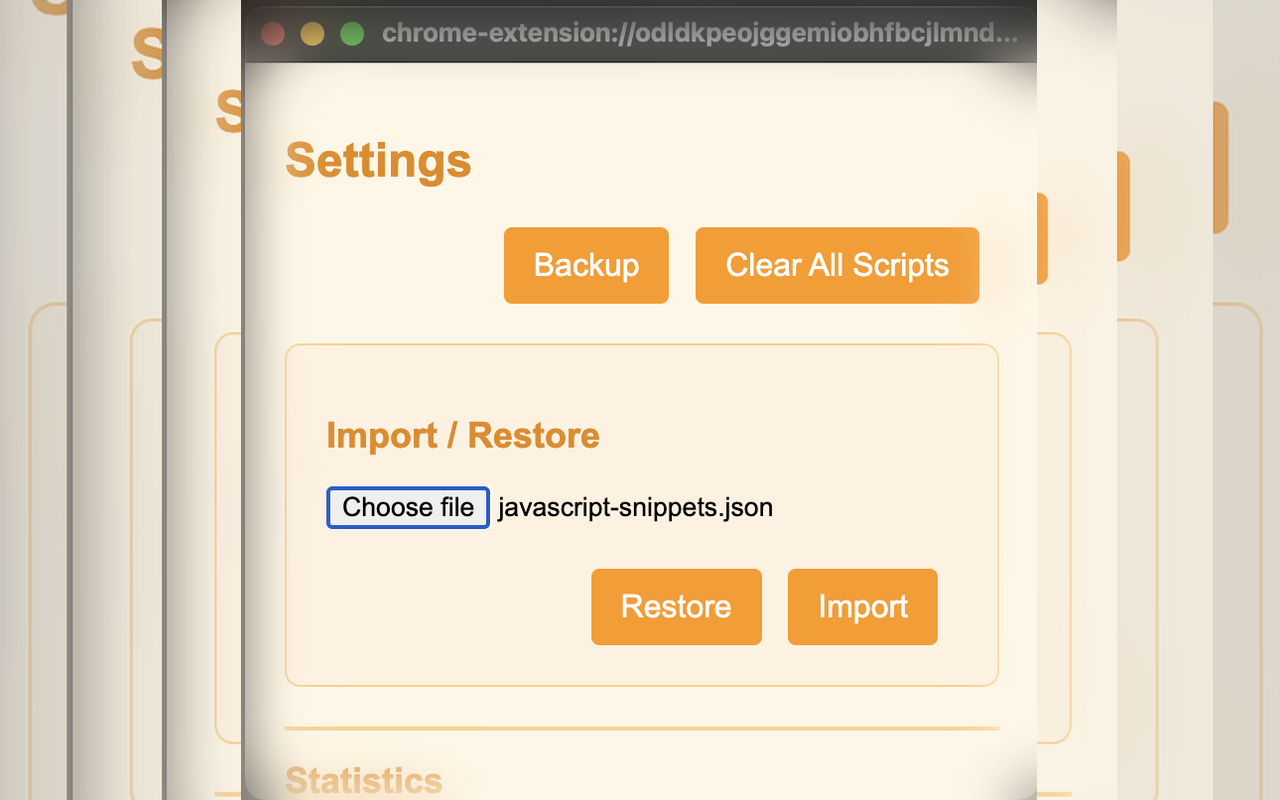
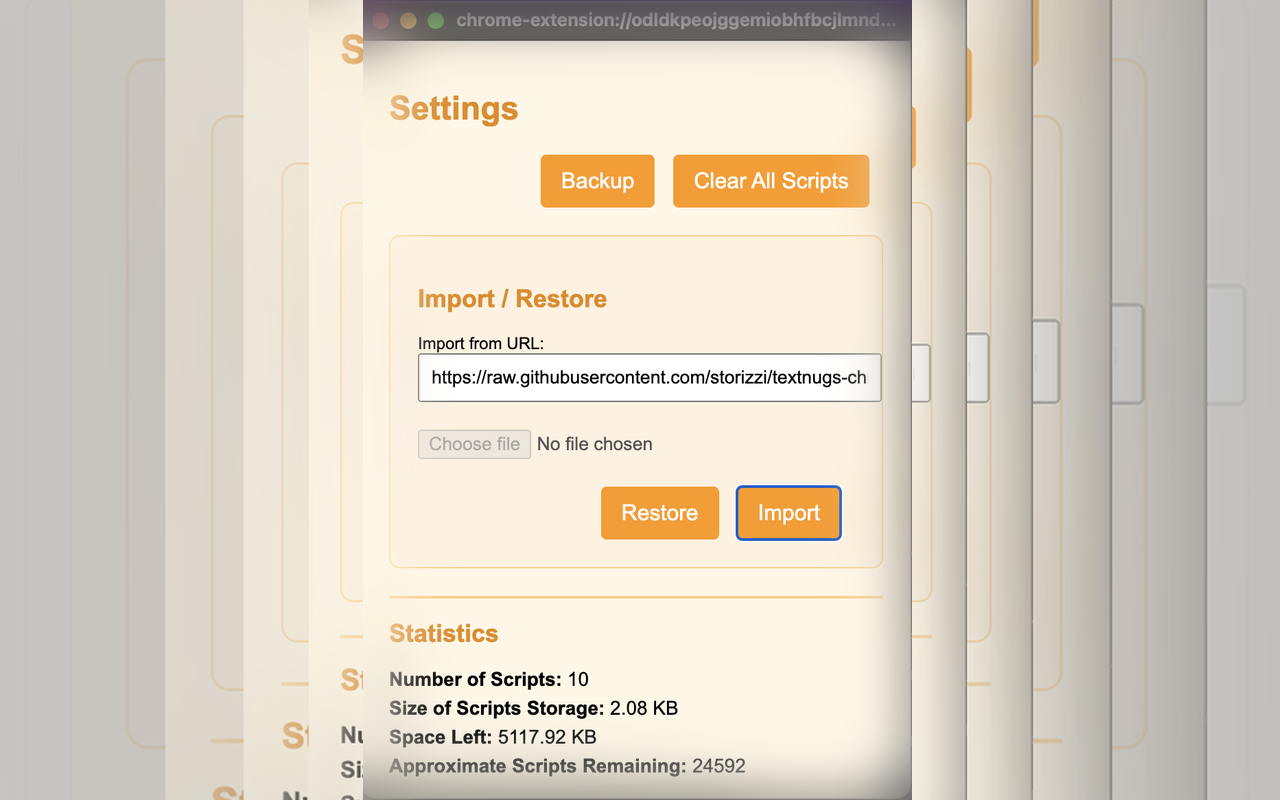
Fix settings height and update settings screenshot

diff --git a/popup.js b/popup.js
@@ -123,7 +123,7 @@ document.getElementById('settings-button').addEventListener('click', () => {
     // Get current window dimensions to center the popup
     chrome.windows.getCurrent((currentWindow) => {
         const width = 400;
-        const height = 400;
+        const height = 580;
         const left = Math.round((currentWindow.width - width) / 2 + currentWindow.left);
         const top = Math.round((currentWindow.height - height) / 2 + currentWindow.top);
 
